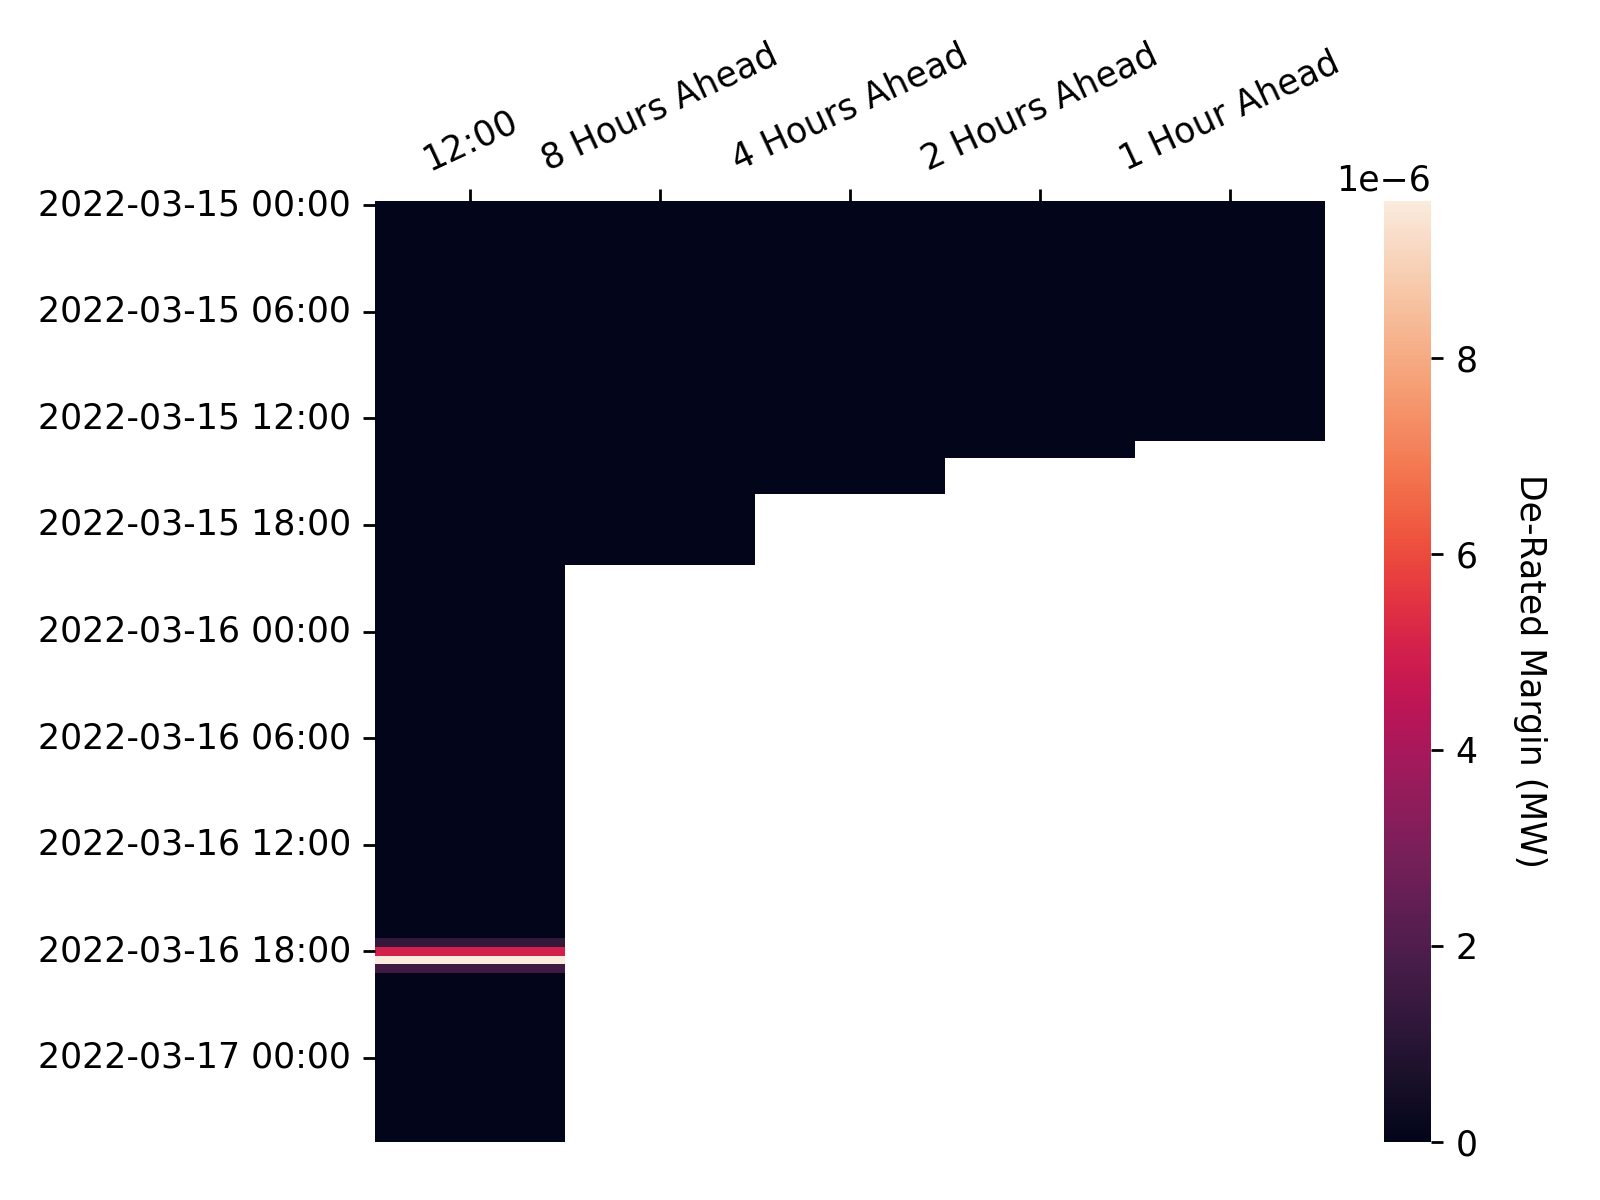
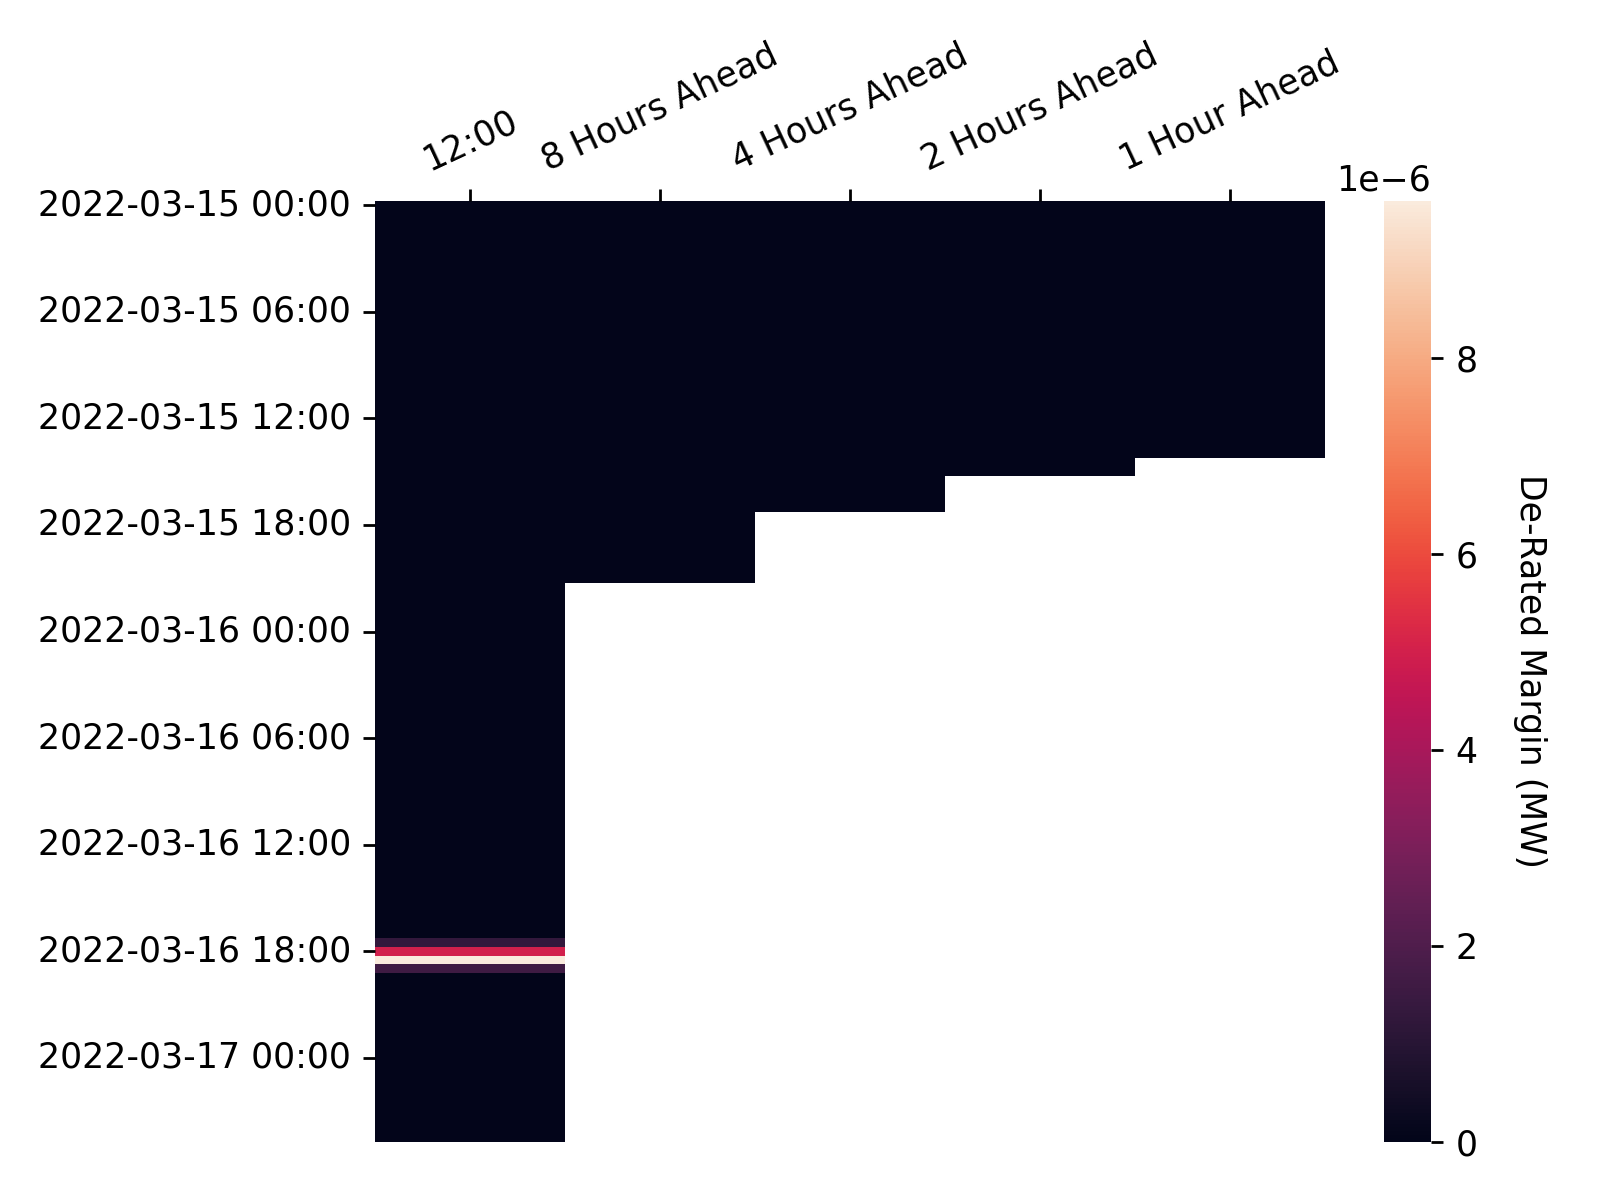
Apply automatic changes

Changed region(s): [[0.5938, 0.37, 0.8438, 0.4008], [0.4688, 0.4008, 0.5938, 0.4317], [0.3438, 0.4625, 0.4688, 0.4933]]

diff --git a/docs/js/map.js b/docs/js/map.js
@@ -144,7 +144,7 @@ document.addEventListener("DOMContentLoaded", function() {
                 follow: 1
             });
             mymap.addControl(sliderControl);
-            sliderControl.startSlider(334);
+            sliderControl.startSlider(335);
         });
     });
 });

diff --git a/docs/visualisations.md b/docs/visualisations.md
@@ -60,7 +60,7 @@ In each settlement period the system operator publishes the de-rated margin fore
 * At 1200 hours on each calendar day for all Settlement Periods for which Gate Closure has not yet passed and which occur within the current Operational Day or the following Operational Day; and
 * At eight, four, two and one hour(s) prior to the beginning of the Settlement Period to which the De-Rated Margin Forecast relates.
 
-These figures will be updated on an hourly basis, the last update was at: 2022-03-15 13:00
+These figures will be updated on an hourly basis, the last update was at: 2022-03-15 13:25
 
 <br>
 
@@ -83,7 +83,7 @@ The following heatmap shows how the more recent de-rated margin forecasts deviat
 
 ### Power Output Map
 
-Last Updated: 2022-03-15 13:00
+Last Updated: 2022-03-15 13:25
 
 This map shows the power output of individual plants connected to the transmission grid as stated in their most recent Physical Notifications. This data can be retrieved through the *PHYBMDATA* BMRS stream, the out-turn data can be viewed one week later through the *B1610* stream. The scrollbar at the top of the map can be used to view how the generation sources have changed their output over the last week, the layer control can be used to toggle on/off the transmission network, and the plants themselves can be clicked to reveal additional information. The plant location data used in this map has been taking from a sister project, [the Power Station Dictionary](https://osuked.github.io/Power-Station-Dictionary/), which aims to link between data about individual power plants.
 
